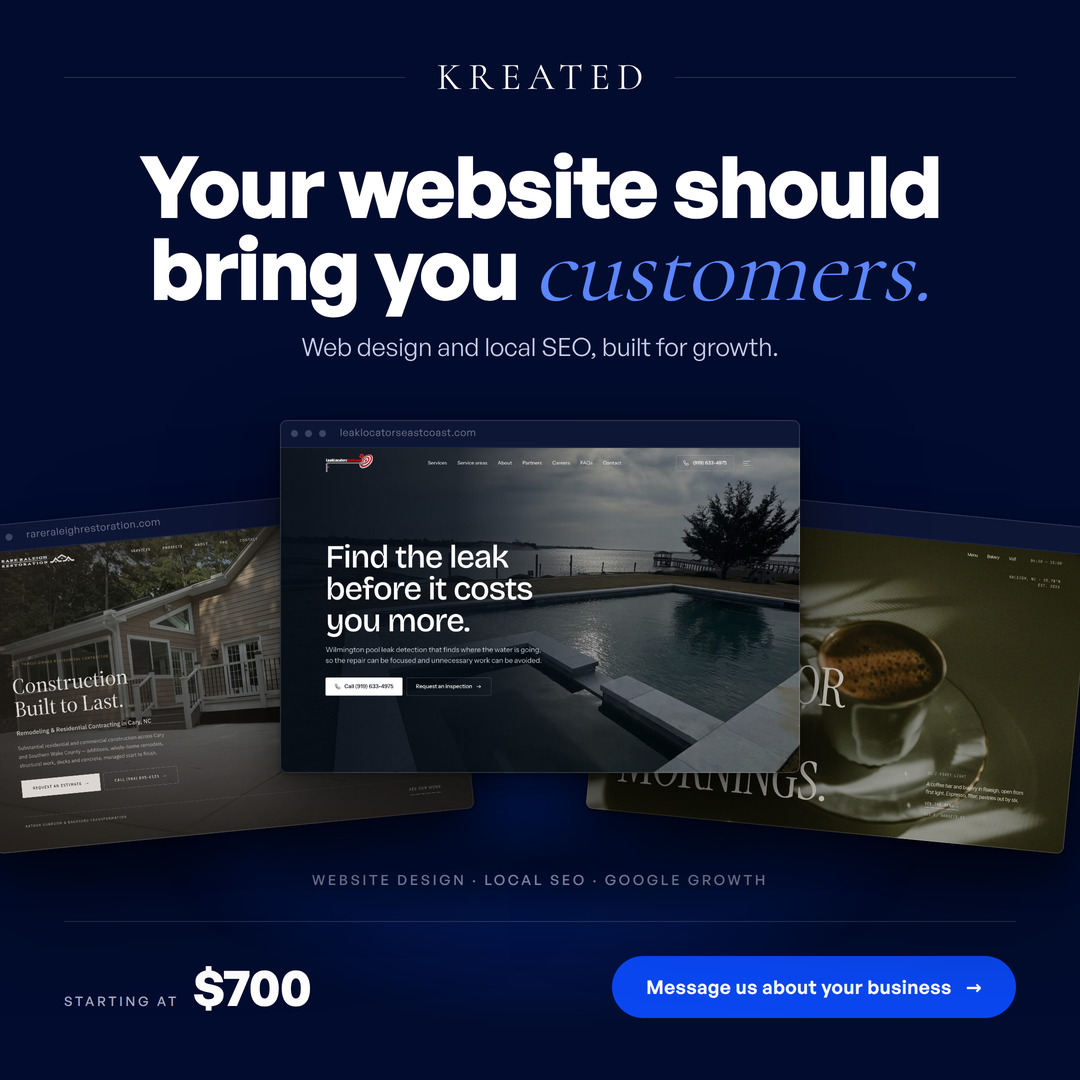
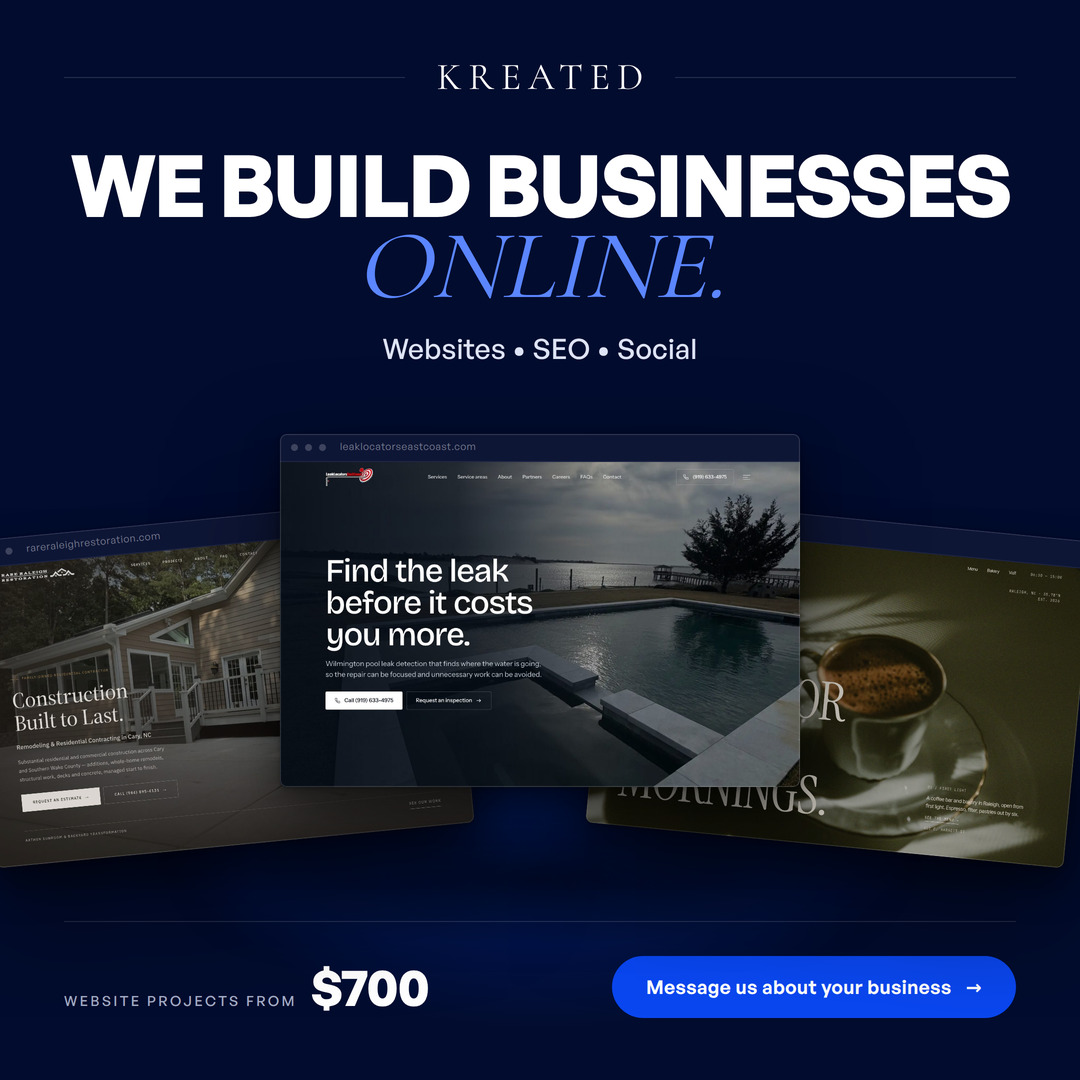
Marketplace ad: new copy deck, caps headline, services row removed
Copy supplied by Skyler:

  WE BUILD BUSINESSES ONLINE.
  Websites • SEO • Social
  Website projects from $700

"ONLINE." takes the Cormorant italic accent and its own line. In caps it is
the most distinctive shape Kreated owns, and dropping it turns the last word
into the payoff rather than the tail of a sentence. It also solves a measure
problem: "WE BUILD BUSINESSES" alone sets to 936px against a 968px measure,
so the line was never taking a fourth word at a readable size.

"Websites • SEO • Social" is promoted to the supporting line at 28px/500 —
brighter and a weight up from a caption, because it is now one of the three
things the ad has to land rather than a gloss on the headline. The old
services row under the fan ("Website design · Local SEO · Google growth") is
removed rather than kept alongside it; the two said the same thing, and a
Marketplace creative cannot afford to say anything twice in one frame.

The headline is stored in caps in the config rather than uppercased by CSS,
so what is typed is what renders; tracking and leading are retuned for caps
and the rule says so. 86px is the ceiling in both crops — the measure is
968px in either, because both are 1080 wide. The price label drops to .18em
to carry the longer phrase without crowding the CTA. Both crops rebalanced
around the removed row; the 4:5 fan now sits on the optical centre of the
space between the supporting line and the foot rule.
[…]

diff --git a/ad/marketplace-2026-09/src/layout-campaign.css b/ad/marketplace-2026-09/src/layout-campaign.css
@@ -44,16 +44,24 @@
 .ad-head .rule{flex:1}
 .ad-mark{font-size:38px;font-weight:400;letter-spacing:.18em;margin-right:-.18em;color:var(--white)}
 
-/* ---- the statement ------------------------------------------------------ */
+/* ---- the statement ------------------------------------------------------
+   The headline arrives from ad.config.js already in caps. Caps at this weight
+   want a step more negative tracking than the sentence-case value in kit.css,
+   and they have no descenders, so the leading closes up too.
+   🚫 If the headline is ever rewritten in sentence case, loosen both back. */
 .ad-say{position:absolute;left:56px;right:56px;text-align:center}
-.ad-headline{color:var(--white)}
+.ad-headline{color:var(--white);letter-spacing:-.034em;line-height:.90}
 /* The serif accent is set in --cobalt-lift, not --cobalt. The base cobalt is
    2.83:1 on the navy ground and an italic serif is the thinnest shape in the
    whole ad; at thumbnail size it greys out. The lift measures 5.62:1.
    🚫 Do not "correct" this back to the identity blue. */
 .ad-headline em{color:var(--cobalt-lift)}
+
+/* The supporting line is no longer a gloss on the headline — it is the
+   service list, and it is one of the three things the ad has to land. So it
+   is set a weight up and a shade brighter than a caption would be. */
 .ad-sub{position:absolute;left:56px;right:56px;text-align:center;
-  font-weight:400;letter-spacing:-.004em;color:#C6CFE8}
+  font-weight:500;letter-spacing:.01em;color:#DEE4F5}
 
 /* ---- the fan ------------------------------------------------------------
    Each window rotates about its own centre and the spread is done with
@@ -88,6 +96,10 @@
 .ad-foot .rule{margin-bottom:34px}
 .ad-foot__row{display:flex;align-items:center;justify-content:space-between}
 .ad-price{display:flex;align-items:baseline;gap:14px}
-.ad-price__k{font-size:13px;font-weight:500;letter-spacing:.22em;text-transform:uppercase;
+/* ⚠ .18em, not the .22em a Kreated label normally carries. The phrase here is
+   "Website projects from", twice the length of a "Starting at", and at .22em
+   it both crowds the CTA and stays a grey smear a size longer than it needs
+   to. 🚫 Shorter label, looser tracking — keep the two in step. */
+.ad-price__k{font-size:14px;font-weight:500;letter-spacing:.18em;text-transform:uppercase;
   color:var(--silver)}
 .ad-price__v{font-weight:700;letter-spacing:-.03em;line-height:1;color:var(--white)}

diff --git a/ad/marketplace-2026-09/src/ad.config.js b/ad/marketplace-2026-09/src/ad.config.js
@@ -18,18 +18,27 @@ window.AD = {
 
   /* The statement. \n is a hard line break. {braces} set that run in
      Cormorant Garamond italic — the Kreated serif accent.
-     ⚠ ONE accent per headline. Two is a template. */
-  headline: 'Your website should\nbring you {customers.}',
+     ⚠ ONE accent per headline. Two is a template.
+     ⚠ This headline is set in CAPS in the source, not by a CSS transform, so
+     what is typed here is what renders. .ad-headline's tracking is tuned for
+     it; a sentence-case rewrite wants that value loosened a step. */
+  headline: 'WE BUILD BUSINESSES\n{ONLINE.}',
 
-  /* One supporting line. Keep it to a single line at this width — it wraps
-     to two around 46 characters and the second line is dead weight in a
-     scroll. */
-  sub: 'Web design and local SEO, built for growth.',
+  /* One supporting line, and it is doing real work now rather than
+     elaborating the headline — it is the whole service list. Keep it to
+     three items; a fourth pushes it past the headline's measure and it stops
+     reading as a single beat. */
+  sub: 'Websites • SEO • Social',
 
-  /* The three services, as quiet furniture. Set to '' to remove the row. */
-  services: 'Website design · Local SEO · Google growth',
+  /* A second quiet row beneath the fan. Empty because `sub` now names the
+     services — running both would say the same thing twice in one frame,
+     which is the one thing a Marketplace creative cannot afford. Set it to a
+     string to bring the row back. */
+  services: '',
 
-  price: { label: 'Starting at', value: '$700' },
+  /* `label` is small tracked caps, `value` is the display figure. They share
+     a baseline, so the whole phrase reads as one line. */
+  price: { label: 'Website projects from', value: '$700' },
 
   /* The sanctioned alternative is 'Build your online presence'. */
   cta: 'Message us about your business',

diff --git a/ad/marketplace-2026-09/src/final-4x5.html b/ad/marketplace-2026-09/src/final-4x5.html
@@ -14,10 +14,14 @@
 <link rel="stylesheet" href="layout-campaign.css">
 <style>
   .ad-glow{top:400px;height:1020px}
-  .ad-head{top:80px}
-  .ad-say{top:214px}
-  .ad-headline{font-size:96px}
-  .ad-sub{top:428px;font-size:27px}
+  .ad-head{top:88px}
+  .ad-say{top:230px}
+  /* ⚠ 86px in BOTH crops, same as the 1:1, and for the same reason the fan is
+     not scaled here: "WE BUILD BUSINESSES" sets to 936px at 86px and the
+     measure is 968px in either crop, because both are 1080 wide. There is no
+     headroom to spend. The extra 270px of this crop is vertical only. */
+  .ad-headline{font-size:86px}
+  .ad-sub{top:408px;font-size:30px}
   /* ⚠ THE FAN IS NOT SCALED UP HERE, AND THAT IS DELIBERATE.
      Both crops are 1080 wide, so the fan's widths and offsets are already
      tuned to the only horizontal budget either of them has. A first pass
@@ -26,10 +30,13 @@
      right — the two things the fan exists to show. The extra 270px of this
      crop buys a larger statement and real air, not bigger screens.
      🚫 Do not reintroduce a transform on .ad-fan. */
-  .ad-fan{top:556px;height:520px}
-  .ad-floor{top:930px;width:920px;left:80px;height:210px}
-  .ad-services{top:1086px;font-size:15px}
-  .ad-foot{bottom:86px}
+  /* The fan sits at the optical centre of the space between the supporting
+     line and the foot rule — 131px of air above it and 131px below. 🚫 Do not
+     nudge this without recomputing both, the emptiness shows immediately in
+     this taller crop. */
+  .ad-fan{top:580px;height:520px}
+  .ad-floor{top:964px;width:920px;left:80px;height:210px}
+  .ad-foot{bottom:92px}
   .ad-price__v{font-size:56px}
 </style>
 </head>

diff --git a/ad/marketplace-2026-09/src/final-1x1.html b/ad/marketplace-2026-09/src/final-1x1.html
@@ -17,10 +17,9 @@
   .ad-head{top:58px}
   .ad-say{top:146px}
   .ad-headline{font-size:86px}
-  .ad-sub{top:330px;font-size:25px}
-  .ad-fan{top:398px;height:520px}
-  .ad-floor{top:770px}
-  .ad-services{top:872px}
+  .ad-sub{top:330px;font-size:28px}
+  .ad-fan{top:412px;height:520px}
+  .ad-floor{top:784px}
   .ad-foot{bottom:62px}
   .ad-price__v{font-size:52px}
 </style>

diff --git a/ad/marketplace-2026-09/README.md b/ad/marketplace-2026-09/README.md
@@ -52,6 +52,13 @@ not disagree. `capture` mechanics: `--force-color-profile=srgb`, reduced motion,
 All three were built and rendered in full, then judged at tile size.
 Contact sheet: `out/concepts--thumbnail-check.png`.
 
+⚠ **The three concept renders carry the earlier headline** ("Your website should
+bring you customers"). The round was decided on *composition* — where the proof
+sits, how the type stacks, what survives a 172px tile — and the copy changed
+after the direction was chosen. They are left as the record of that comparison
+rather than re-rendered, so what is in `out/concept-*.png` is exactly what the
+decision below was made on. Only the two finals carry the shipping copy.
+
 **Concept 1 — editorial / quiet luxury** (`src/concept-1.html`)
 Paper ground, navy ink, enormous negative space, the portfolio as a shelf
 bleeding off the bottom edge. The argument was that in a feed of loud ads the
@@ -115,13 +122,33 @@ websites, the Kreated name, the price, the CTA.
 
 ### Copy on the graphic
 
-> KREATED · Your website should bring you *customers.* · Web design and local
-> SEO, built for growth. · Website design · Local SEO · Google growth ·
-> Starting at $700 · Message us about your business →
+> KREATED
+> **WE BUILD BUSINESSES *ONLINE.***
+> Websites • SEO • Social
+> WEBSITE PROJECTS FROM **$700**  ·  Message us about your business →
 
-That is the whole of it. Everything else — locality, scope, what $700 buys —
-belongs in the listing text, where it costs nothing and is read by people who
-have already stopped scrolling.
+Five elements, four rows. That is the whole of it. Everything else — locality,
+scope, what $700 buys, the fact that SEO and Social are ongoing rather than
+one-time — belongs in the listing text, where it costs nothing and is read by
+people who have already stopped scrolling.
+
+Three notes on how the copy is set:
+
+- **"ONLINE." takes the serif accent and its own line.** In caps, Cormorant
+  italic is the most distinctive shape Kreated owns, and dropping it onto a
+  second line turns the last word into the payoff rather than the tail of a
+  sentence. It also solves a measure problem: "WE BUILD BUSINESSES" alone sets
+  to 936px against a 968px measure, so the line was never going to take a
+  fourth word at a readable size.
+- **"Websites • SEO • Social" is the supporting line, not quiet footer
+  furniture.** It sits directly under the statement at 28px/500, which is a
+  weight and a shade brighter than a caption, because it is one of the three
+  things the ad has to land rather than a gloss on the headline.
+- **The services row under the fan was removed.** It used to read "Website
+  design · Local SEO · Google growth", which now says the same thing as the
+  supporting line. A Marketplace creative cannot afford to say anything twice
+  in one frame. `services` in the config is `''`; set it to a string to bring
+  the row back.
 
 ---
 
@@ -130,13 +157,20 @@ have already stopped scrolling.
 Edit **`src/ad.config.js`** and nothing else:
 
 ```js
-headline: 'Your website should\nbring you {customers.}',   // \n breaks, {…} = serif accent
-sub:      'Web design and local SEO, built for growth.',
-services: 'Website design · Local SEO · Google growth',     // '' removes the row
-price:    { label: 'Starting at', value: '$700' },
+headline: 'WE BUILD BUSINESSES\n{ONLINE.}',        // \n breaks, {…} = serif accent
+sub:      'Websites • SEO • Social',
+services: '',                                      // a second row under the fan
+price:    { label: 'Website projects from', value: '$700' },
 cta:      'Message us about your business',
 projects: [ { slot: 'left'|'centre'|'right', url, shot } ],
 ```
+
+⚠ **The headline is stored in caps, not uppercased by CSS** — what is typed is
+what renders. `.ad-headline` in `layout-campaign.css` carries tracking and
+leading tuned for caps; a sentence-case rewrite wants both loosened a step. And
+the measure is 968px in *both* crops, because both are 1080 wide, so 86px is the
+ceiling for a 19-character line either way. A longer first line needs a smaller
+size, not a bigger canvas.
 
 Then:
 
@@ -181,14 +215,21 @@ moves, move this with it.
 
 ## 6. Open item for Skyler
 
-**"Starting at $700" is not in the current offer map.** `docs/OFFER-MAP.md` lists
+**"Website projects from $700" is not in the current offer map.** `docs/OFFER-MAP.md` lists
 `700–1200` as the *old full-site range*, marked **Deprecated — 🚫 never quote**.
 The cheapest published website package is `pkg.web.onepage` at **750**, and the
 cheapest published page of any kind is `svc.page.standard` at **250**. So $700
 sits below every sanctioned website entry point and above the individual-page
 one. The figure was specified for this ad, so it is what the creative says — but
 it disagrees with the pricing source of truth, and a Marketplace enquiry that
-arrives quoting $700 lands against a scope that no longer exists at that
-number. Either the offer map gets a sanctioned Marketplace entry point, or the ad reads
-**Starting at $750** and matches One Page Website. One line in `ad.config.js`
-either way.
+arrives quoting $700 lands against a scope that no longer exists at that number.
+
+The new wording makes this sharper, not softer: "website **projects** from $700"
+is a claim about the cheapest *project*, and the cheapest project Kreated
+publishes is 750. The ad also now sells Social, which has no one-time price at
+all — `pkg.social.manage` is 900/month with a three-month initial term — so a
+reader can reasonably take $700 as an entry point to all three of Websites, SEO
+and Social when it is an entry point to none of them. Either the offer map gets a sanctioned Marketplace entry point, or the ad reads
+**website projects from $750** and matches One Page Website. One line in
+`ad.config.js` either way. Worth deciding before the listing goes up, because
+the first enquiry will quote whichever number is on the graphic.
